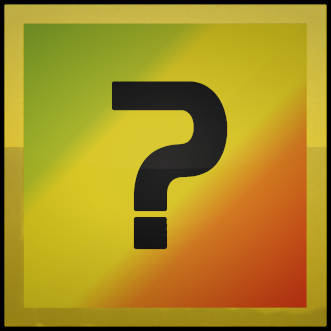
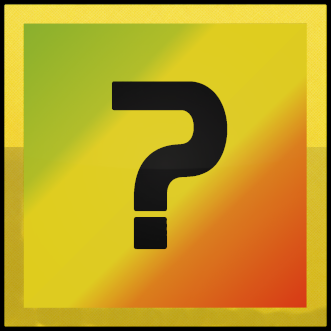
correc p75 et p78

diff --git a/cards-list.html b/cards-list.html
@@ -9716,8 +9716,7 @@
             <div class="prelude2-icon project-icon2"></div>
             <div class="content">
               <div class="requirements">
-                10%
-                <div class="venus-tile-small"></div>
+                10% Vénus
               </div>
               <br/>
               <div class="titanium resource"></div>
@@ -9788,6 +9787,7 @@
               <div class="description">
                 (Effet : Chaque fois que vous commercez, vous pouvez d'abord augmenter la piste de cette colonie de 2.)
               </div>
+              <br/>
               3
               <div class="resource multiRes"></div>
               *